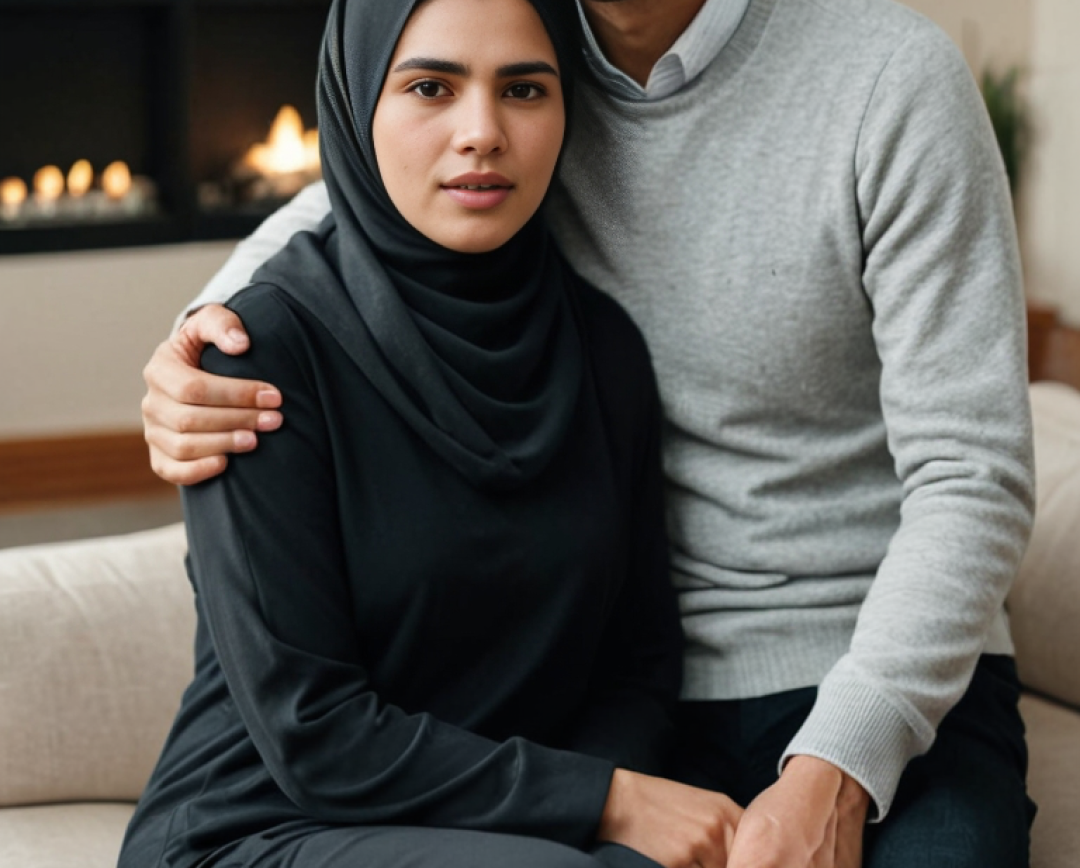
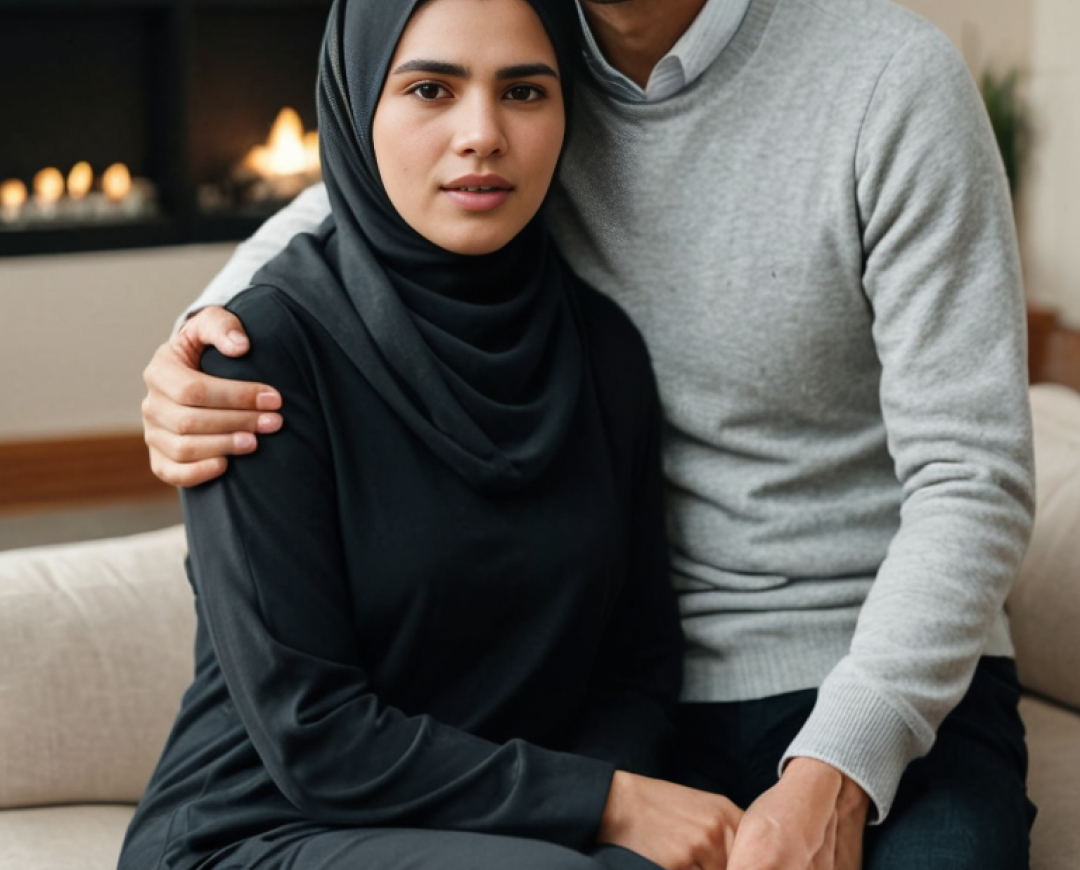
ganti s3

diff --git a/app/zymuno/result/page.js b/app/zymuno/result/page.js
@@ -228,8 +228,8 @@ export default function Result() {
                     }
                     {formasiFix == 's3' && 
                     <div className='relative w-full flex flex-col'>
-                        <Image src={imageResultAI}  width={1080} height={825} alt='Zirolu' className='relative block w-full'></Image>
-                        <Image src={imageResultAI2}  width={1080} height={525} alt='Zirolu' className='relative block w-full'></Image>
+                        <Image src={imageResultAI}  width={1080} height={480} alt='Zirolu' className='relative block w-full'></Image>
+                        <Image src={imageResultAI2}  width={1080} height={870} alt='Zirolu' className='relative block w-full'></Image>
                     </div>
                     }
                     {formasiFix == 's4' && 
@@ -258,6 +258,12 @@ export default function Result() {
                             <div className='relative w-full flex'>
                                 <Image src={imageResultAI}  width={566} height={1350} alt='Zirolu' className='relative block w-[285px]'></Image>
                                 <Image src={imageResultAI2}  width={514} height={1350} alt='Zirolu' className='relative block w-[259px]'></Image>
+                            </div>
+                            }
+                            {formasiFix == 's3' && 
+                            <div className='relative w-full'>
+                                <Image src={imageResultAI}  width={1080} height={480} alt='Zirolu' className='relative block w-full'></Image>
+                                <Image src={imageResultAI2}  width={1080} height={870} alt='Zirolu' className='relative block w-full'></Image>
                             </div>
                             }
                             {formasiFix == 's4' && 
